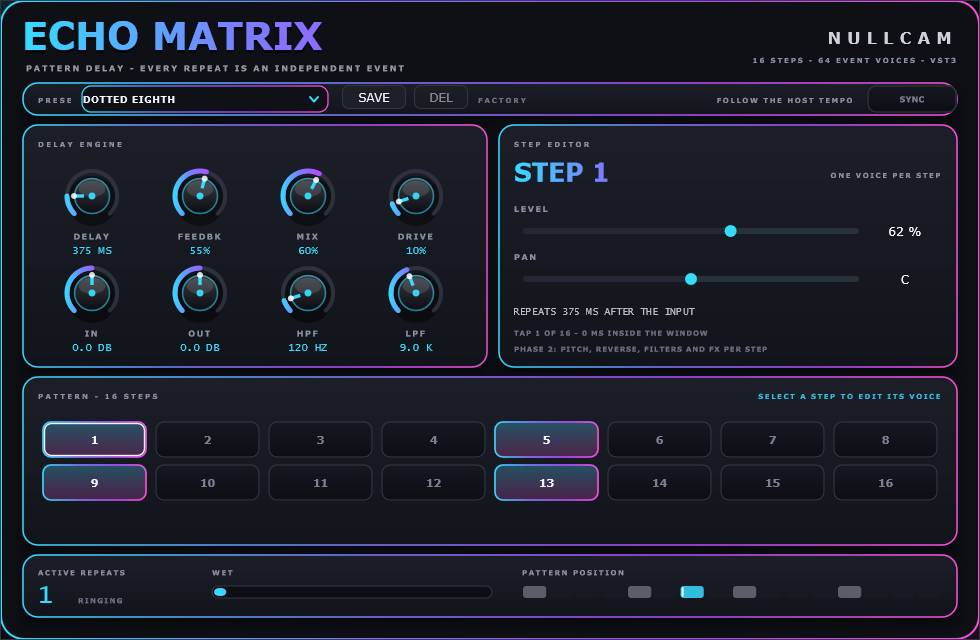
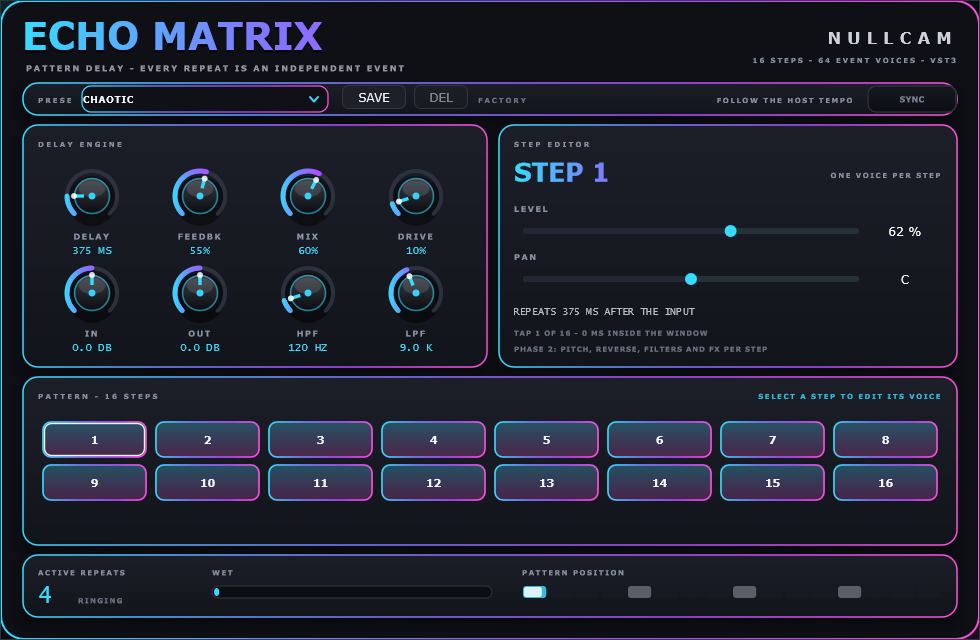
EchoMatrixMode: check that every factory preset makes a sound

diff --git a/EchoMatrixMode/tests/ui_check.cpp b/EchoMatrixMode/tests/ui_check.cpp
@@ -101,10 +101,12 @@ juce::String sliderText (juce::Slider& slider)
 }
 
 // A short phrase, to make the panel show something alive.
-void playPhrase (EchoMatrixModeAudioProcessor& processor, double seconds)
+// It returns the loudest sample that came out.
+float playPhrase (EchoMatrixModeAudioProcessor& processor, double seconds)
 {
     const auto blockSize = 512;
     const auto blocks = (int) (seconds * 48000.0 / blockSize);
+    float peak = 0.0f;
 
     juce::AudioBuffer<float> buffer (2, blockSize);
     juce::MidiBuffer midi;
@@ -128,7 +130,13 @@ void playPhrase (EchoMatrixModeAudioProcessor& processor, double seconds)
         }
 
         processor.processBlock (buffer, midi);
+
+        for (int channel = 0; channel < 2; ++channel)
+            for (int i = 0; i < blockSize; ++i)
+                peak = std::max (peak, std::abs (buffer.getSample (channel, i)));
     }
+
+    return peak;
 }
 
 } // namespace
@@ -206,6 +214,30 @@ int main (int argc, char* argv[])
 
         check (std::abs (paramValue (processor, ids::feedback) - before) < 1.0e-4f,
                "the plugin state restores the feedback setting");
+    }
+
+    //--------------------------------------------------------------------------
+    // Every factory preset makes a sound, and no preset blows up.
+    {
+        processor.prepareToPlay (48000.0, 512);
+
+        bool allGood = true;
+
+        for (int i = 0; i < EchoMatrixModeAudioProcessor::kNumPresets; ++i)
+        {
+            processor.applyPreset ((EchoMatrixModeAudioProcessor::Preset) i);
+
+            const auto peak = playPhrase (processor, 2.0);
+            const auto name = EchoMatrixModeAudioProcessor::getFactoryPresetName (
+                (EchoMatrixModeAudioProcessor::Preset) i);
+
+            std::cout << "  " << name << ": peak " << peak << "\n";
+
+            if (peak < 0.02f || peak > 0.99f)
+                allGood = false;
+        }
+
+        check (allGood, "every factory preset makes a sound and stays inside the rails");
     }
 
     //--------------------------------------------------------------------------
